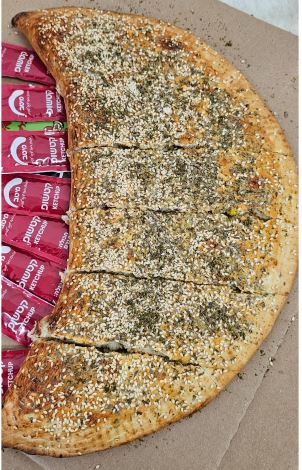
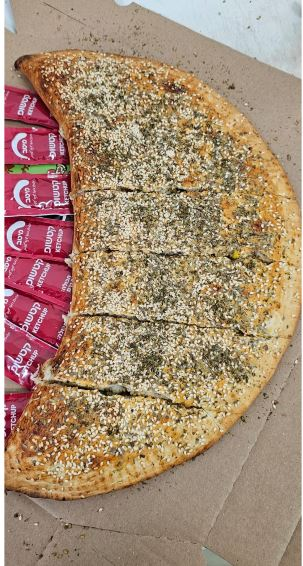
Update pizza imeges2

diff --git a/src/App.css b/src/App.css
@@ -16,9 +16,12 @@
 
 .header {
   display: flex;
+  flex-direction: column;
   justify-content: center;
   align-items: center;
-  padding: 10px 0 4px;
+  gap: 10px;
+  padding: 15px 0;
+  text-align: center;
 }
 
 .restaurant-logo {
@@ -125,7 +128,7 @@
 
 .pizza-image {
   display: block;
-  width: 333px;
+  width: 222px;
   height: 255px;
   flex-shrink: 0;
   object-fit: contain;
@@ -396,7 +399,7 @@
     width: 105px;
     height: 105px;
     flex: 0 0 105px;
-    object-fit: cover;
+    object-fit: contain;
     border-radius: 10px;
   }
 
